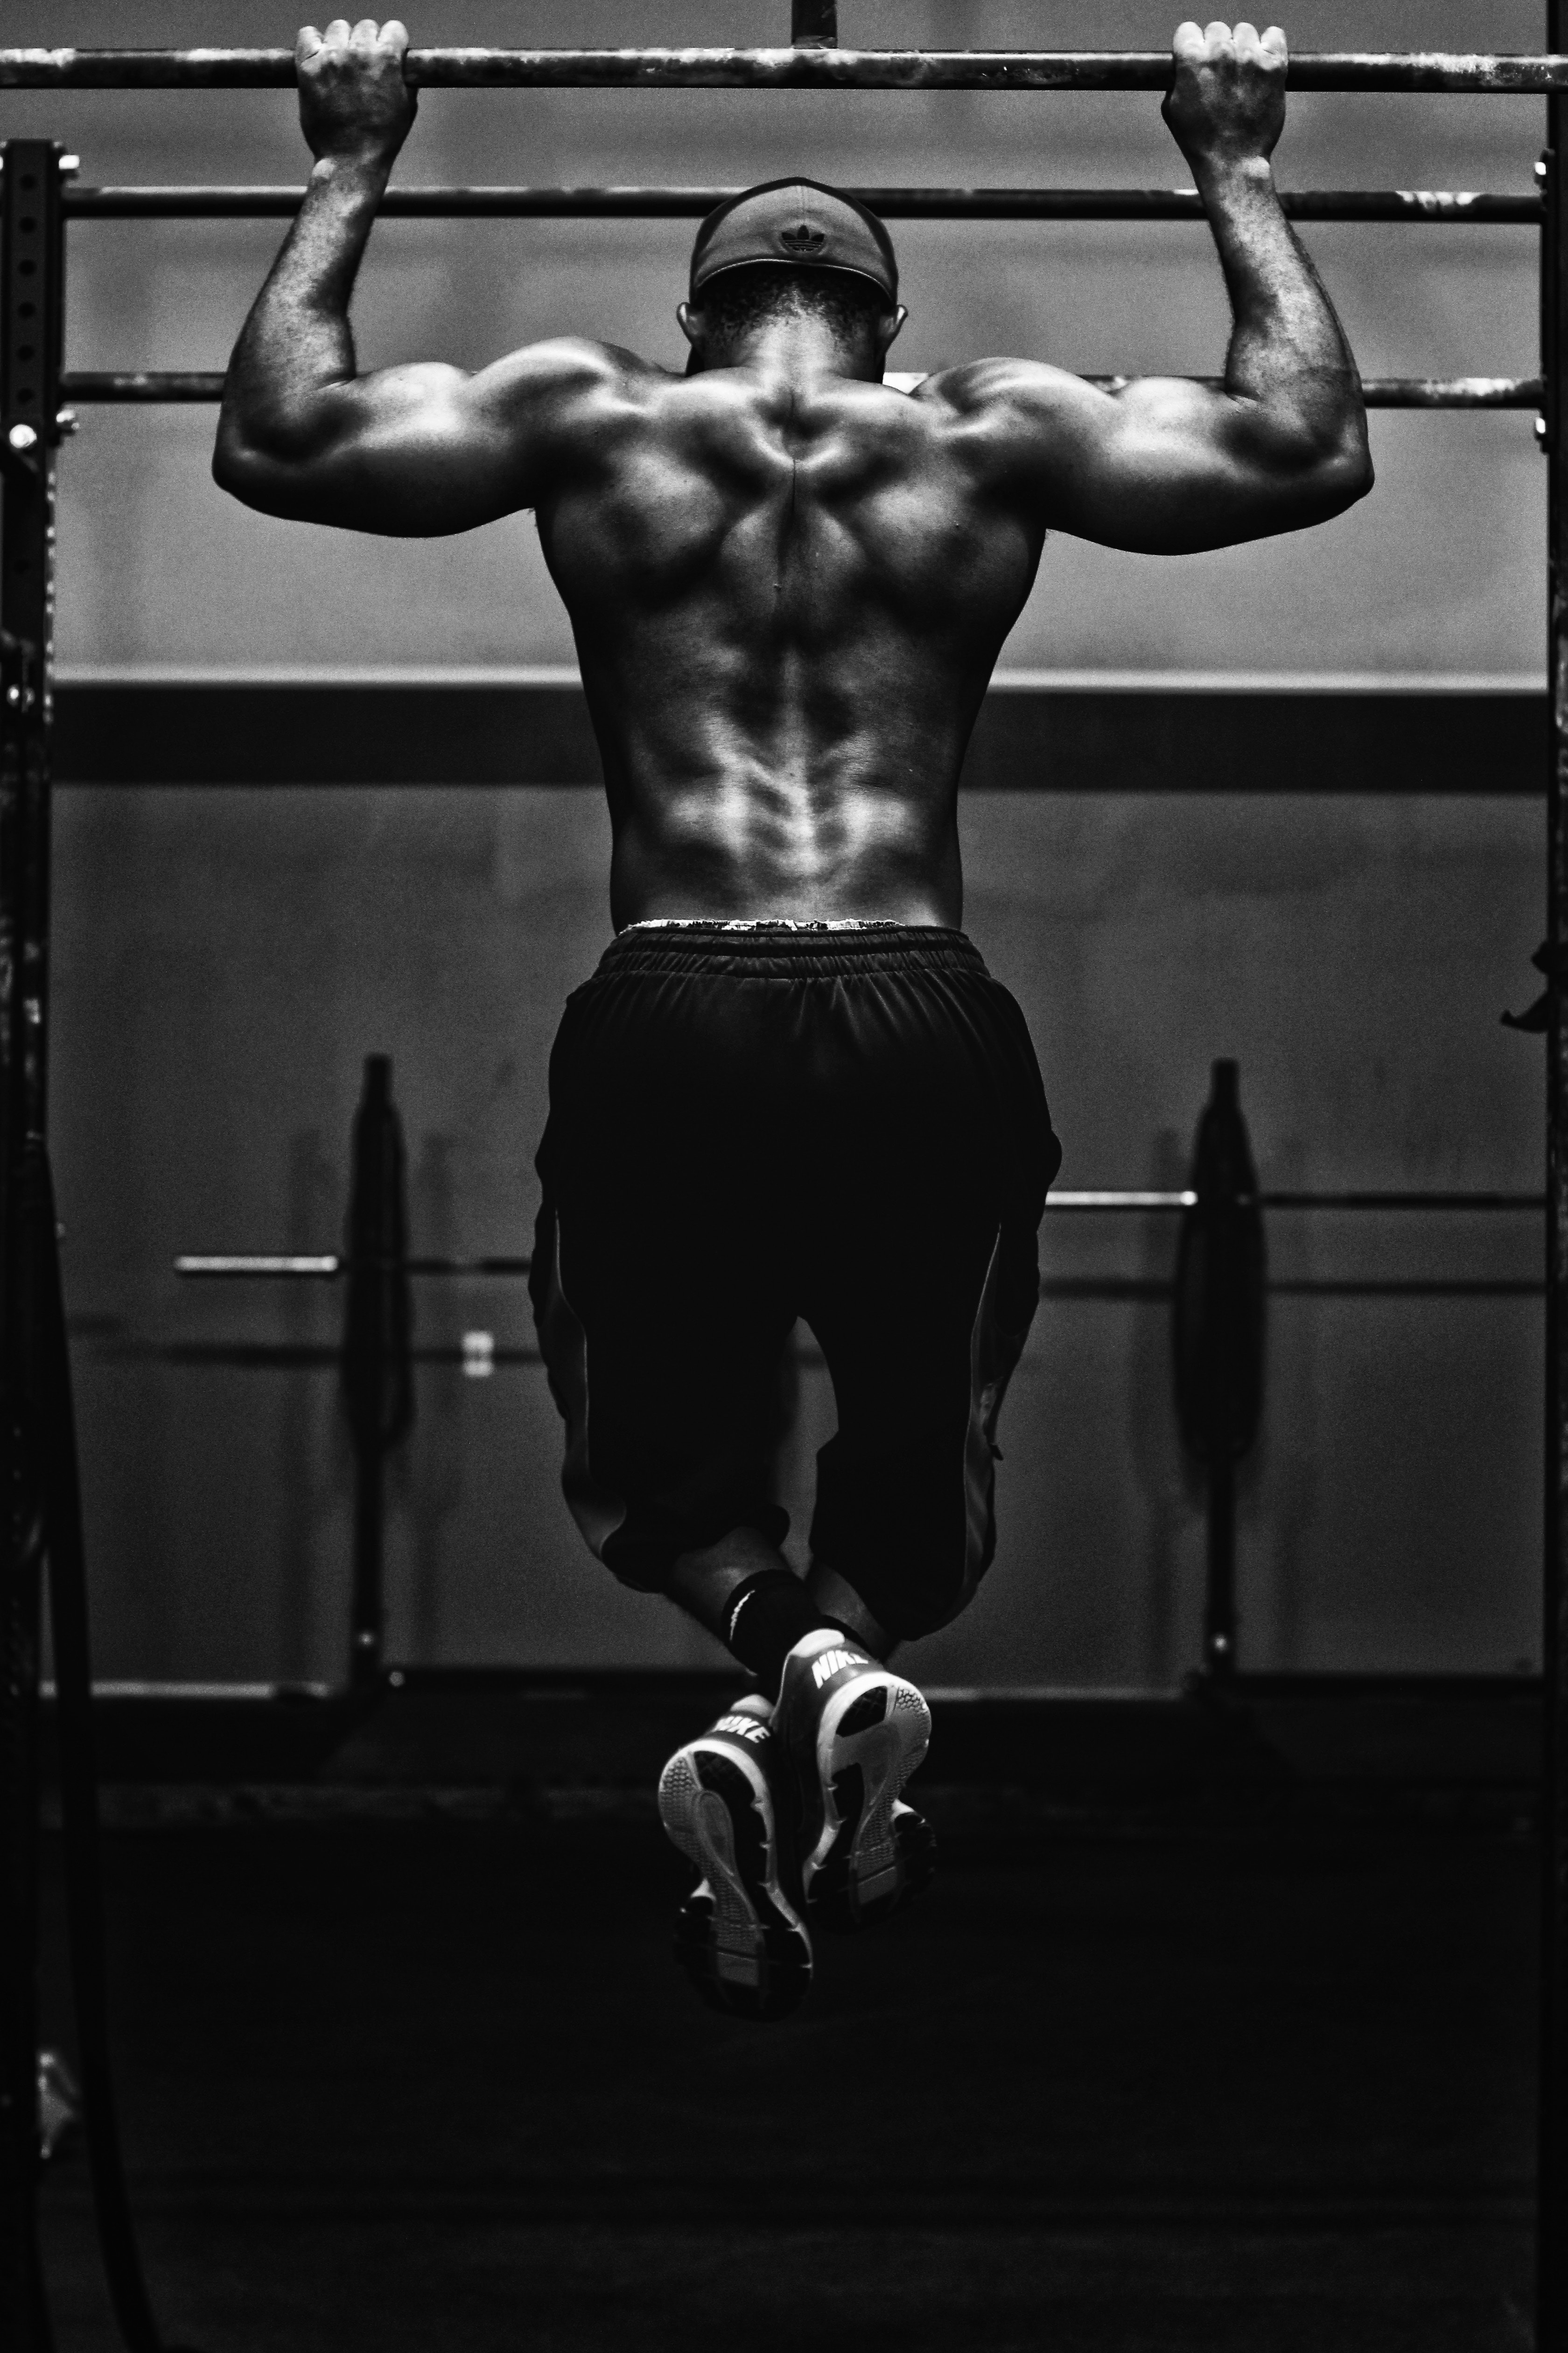
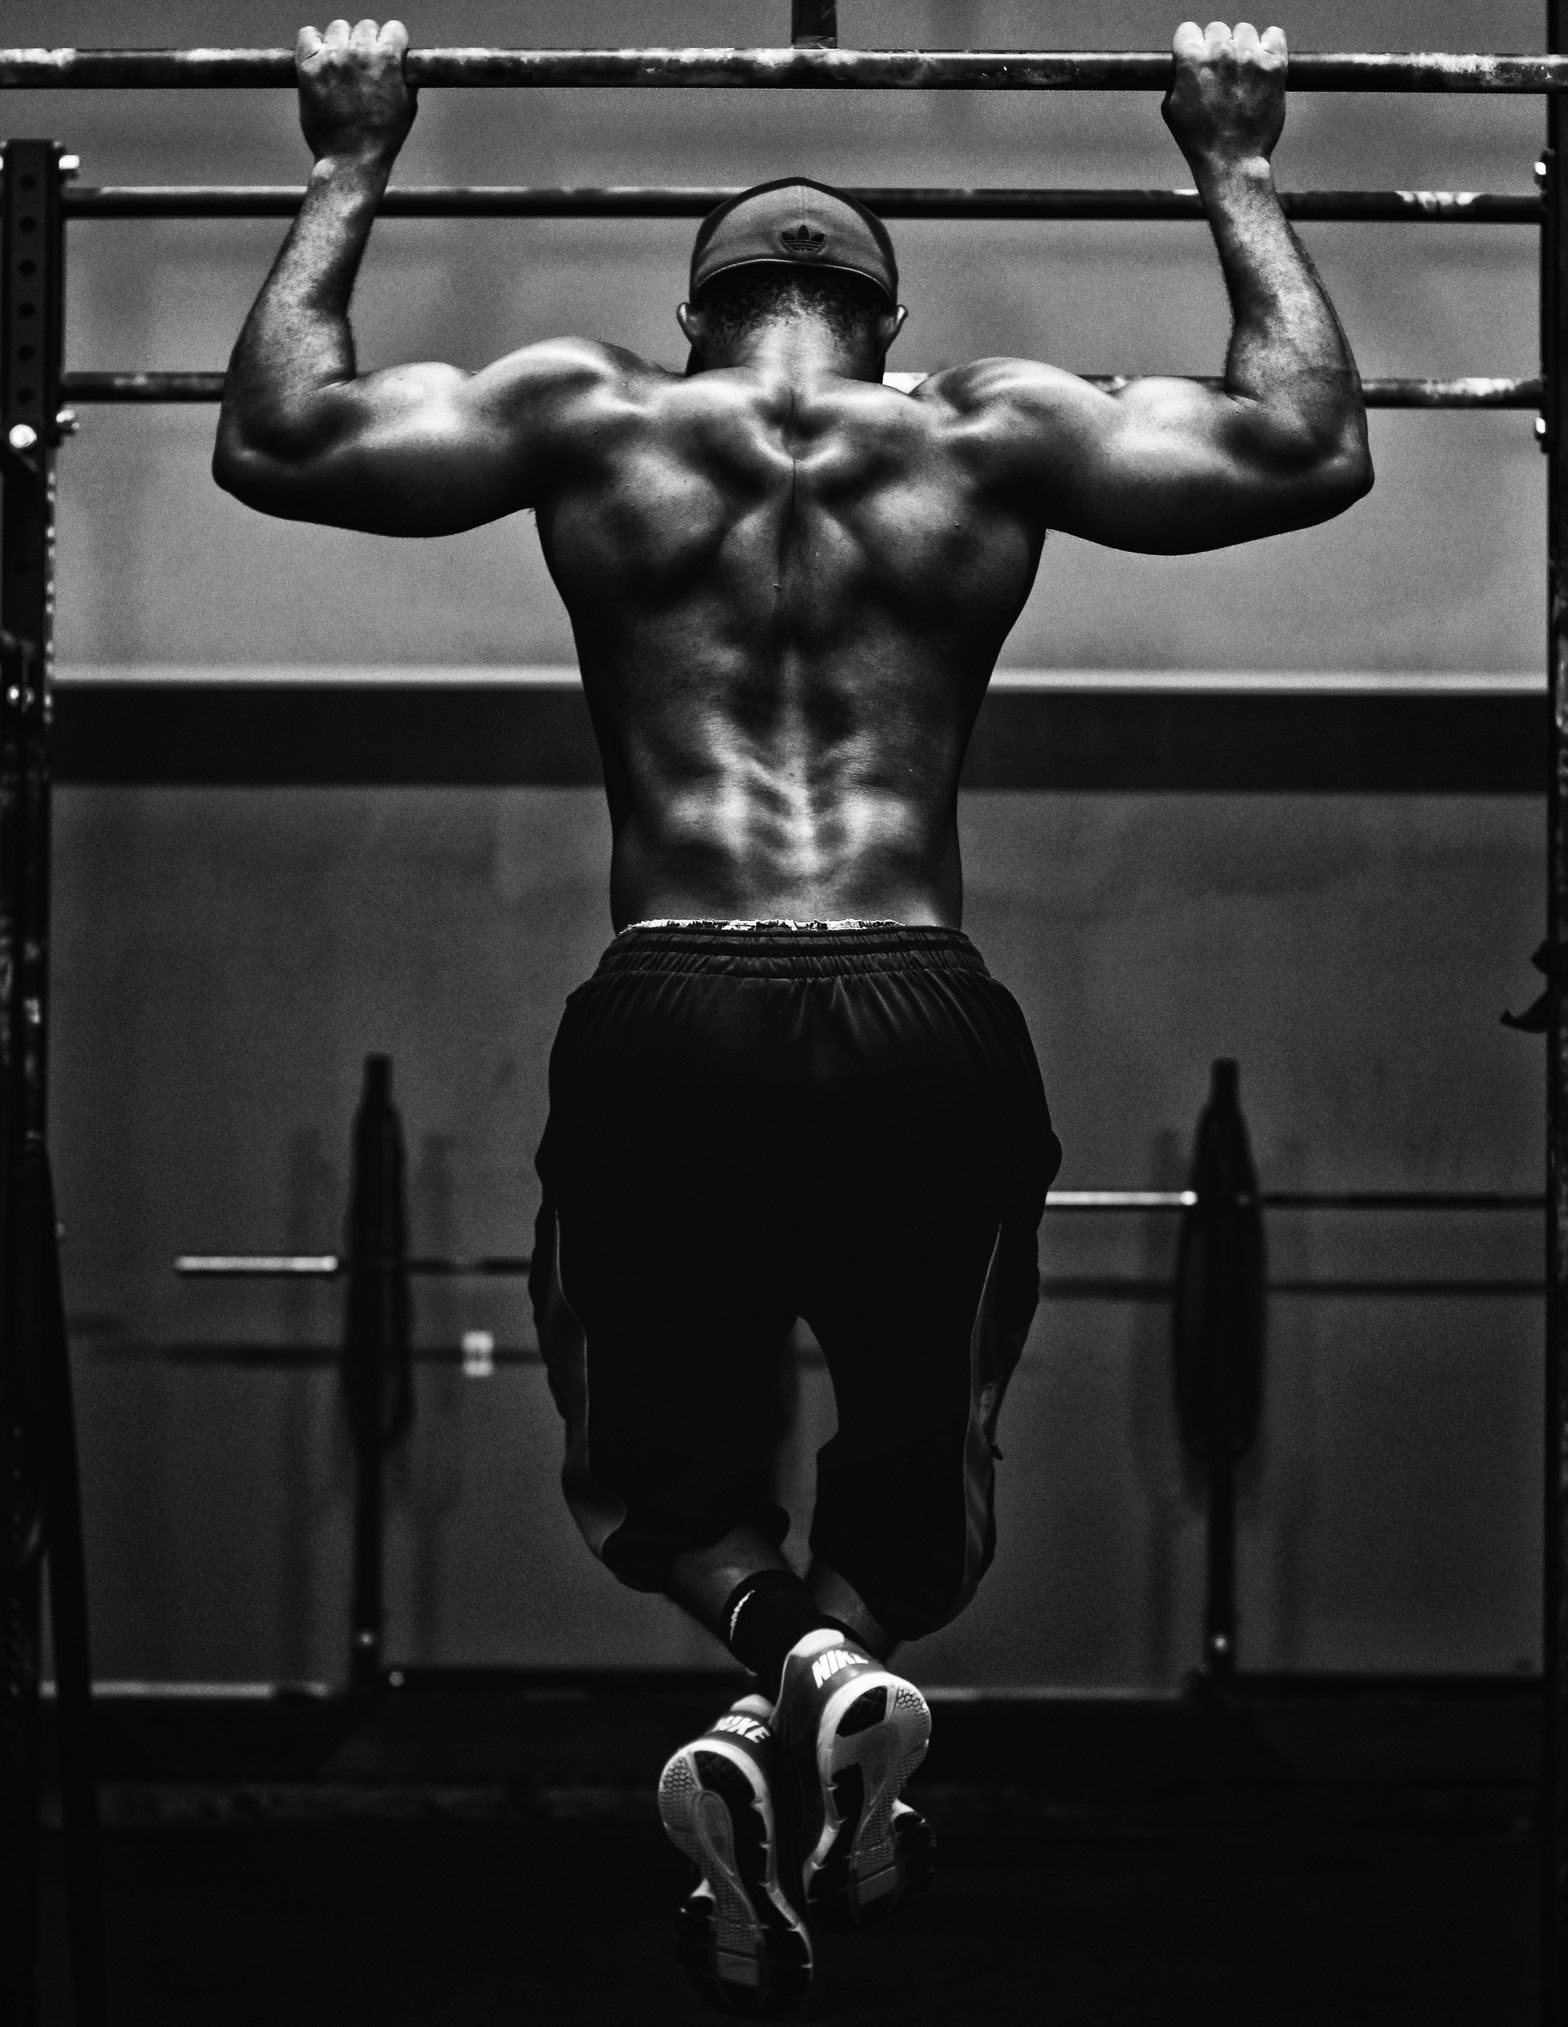
Updating signing page added facebook auth provider

diff --git a/src/pages/auth/signin.tsx b/src/pages/auth/signin.tsx
@@ -6,6 +6,7 @@ import { type ClientSafeProvider, getProviders, signIn } from "next-auth/react";
 import { getServerSession } from "next-auth/next";
 import { authOptions } from "../../server/auth";
 import Image from "next/image";
+import ProviderCircleButton from "./providerCircleButton";
 
 export default function SignIn({
   providers,
@@ -14,26 +15,26 @@ export default function SignIn({
     <section className=" flex h-screen flex-row bg-black font-paytone text-white">
       <div className="relative w-2/3 overflow-hidden bg-gradient-to-r from-black to-zinc-900">
         <Image
-          src={"/pullup-full.jpg"}
+          src={"/weights.jpg"}
           alt="Guy doing a pullup"
           layout="fill"
           sizes="100%"
-          objectFit="contain"
-          className="grayscale scale-[1.80] translate-y-48 -translate-x-12"
-          />
+          objectFit="cover"
+          className="scale-[1] grayscale"
+        />
       </div>
-      <div className=" flex flex-col items-center justify-center w-1/3 bg-zinc-900 text-black ">
-        <div className=" flex flex-col gap-4 items-center px-8 py-4 rounded-md bg-zinc-700 w-72">
-            <h1 className=" text-4xl font-bold">Sign In</h1>
-          {Object.values(providers).map((provider: ClientSafeProvider) => (
-            <div key={provider.name}>
-              <button
-                className=" bg-zinc-300 px-4 py-2 rounded-lg border-2 hover:bg-zinc-100"
-                onClick={() => signIn(provider.id)}>
-                Sign in with {provider.name}
-              </button>
-            </div>
-          ))}
+      <div className=" flex w-1/3 flex-col items-center justify-center bg-zinc-800 text-white ">
+        <div className=" flex flex-col items-center gap-4 px-8 py-4">
+          <h1 className=" flex flex-col text-4xl font-bold ">Sign In</h1>
+          <div className=" flex h-[0.05rem] w-11/12 flex-col items-center bg-zinc-400" />
+          <div className=" flex flex-row gap-x-4">
+            {Object.values(providers).map((provider: ClientSafeProvider) => (
+              <ProviderCircleButton key={provider.name} provider={provider} />
+            ))}
+          </div>
+          <p className=" text-xs">Trusted Providers</p>
+          <div className=" flex h-[0.05rem] w-11/12 flex-col items-center bg-zinc-400"></div>
+          
         </div>
       </div>
     </section>

diff --git a/src/server/auth.ts b/src/server/auth.ts
@@ -7,6 +7,7 @@ import {
 } from "next-auth";
 // import DiscordProvider from "next-auth/providers/discord";
 import GoogleProvider from "next-auth/providers/google";
+import FacebookProvider from "next-auth/providers/facebook";
 
 import { env } from "~/env.mjs";
 import { db } from "~/server/db";
@@ -64,15 +65,10 @@ export const authOptions: NextAuthOptions = {
         }
       },
     }),
-    /**
-     * ...add more providers here.
-     *
-     * Most other providers require a bit more work than the Discord provider. For example, the
-     * GitHub provider requires you to add the `refresh_token_expires_in` field to the Account
-     * model. Refer to the NextAuth.js docs for the provider you want to use. Example:
-     *
-     * @see https://next-auth.js.org/providers/github
-     */
+    FacebookProvider({
+      clientId: env.FACEBOOK_CLIENT_ID,
+      clientSecret: env.FACEBOOK_CLIENT_SECRET,
+    }),
   ],
 };
 

diff --git a/src/pages/Layout.tsx b/src/pages/Layout.tsx
@@ -1,4 +1,4 @@
-import { useEffect, useRef, useState } from "react";
+import { useEffect, useState } from "react";
 import { UserActions } from "~/components/UserActions";
 
 export function Layout({ children }) {
@@ -18,7 +18,6 @@ export function Layout({ children }) {
   }
 
   useEffect(() => {
-    const navbar = document.querySelector(".le-header");
     window.addEventListener("scroll", handleScrollForNavbar);
     
     setShouldLoadHeader(!pagesToHideHeader.includes(window.location.pathname))

diff --git a/src/components/UserActions.tsx b/src/components/UserActions.tsx
@@ -14,7 +14,7 @@ export function UserActions() {
         </button>
       ) : null}
       <button
-        className="rounded-full bg-white/10 px-6 py-2 font-semibold text-white no-underline transition hover:bg-white/20"
+        className="rounded-full bg-white/10 px-6 py-2 font-semibold text-white no-underline transition hover:bg-white/20 active:bg-white/30 "
         onClick={sessionData ? () => void signOut() : () => void signIn()}
       >
         {sessionData ? "Sign out" : "Sign in"}

diff --git a/src/pages/auth/providerCircleButton.tsx b/src/pages/auth/providerCircleButton.tsx
@@ -1,0 +1,17 @@
+import { type ClientSafeProvider, signIn } from "next-auth/react";
+
+export default function ProviderCircleButton({
+  provider,
+}: {
+  provider: ClientSafeProvider;
+}) {
+
+  return (
+    <button
+      className=" bottom-4 text-md w-full flex flex-col items-center justify-center rounded-full border-2 border-zinc-200 bg-zinc-700 p-2 hover:bg-zinc-500 active:bg-zinc-600"
+      onClick={() => signIn(provider.id)}
+    >
+      {provider.name}
+    </button>
+  );
+}
